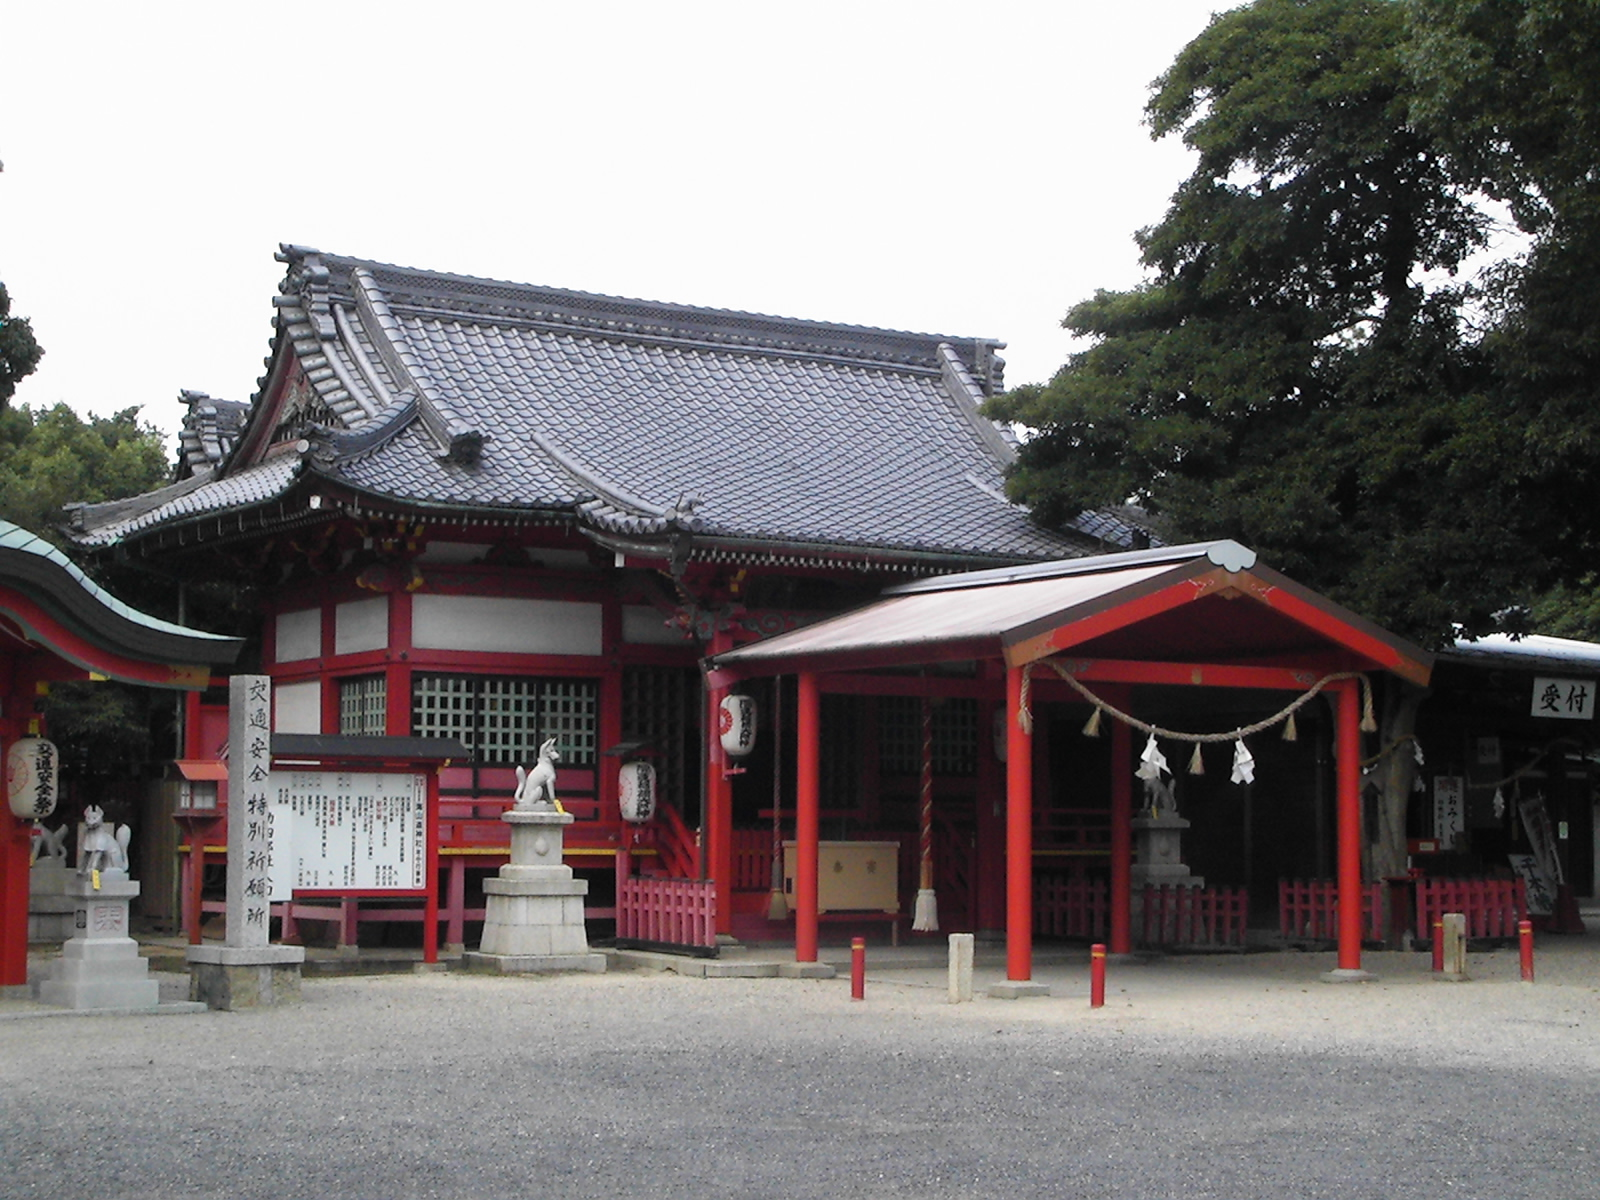
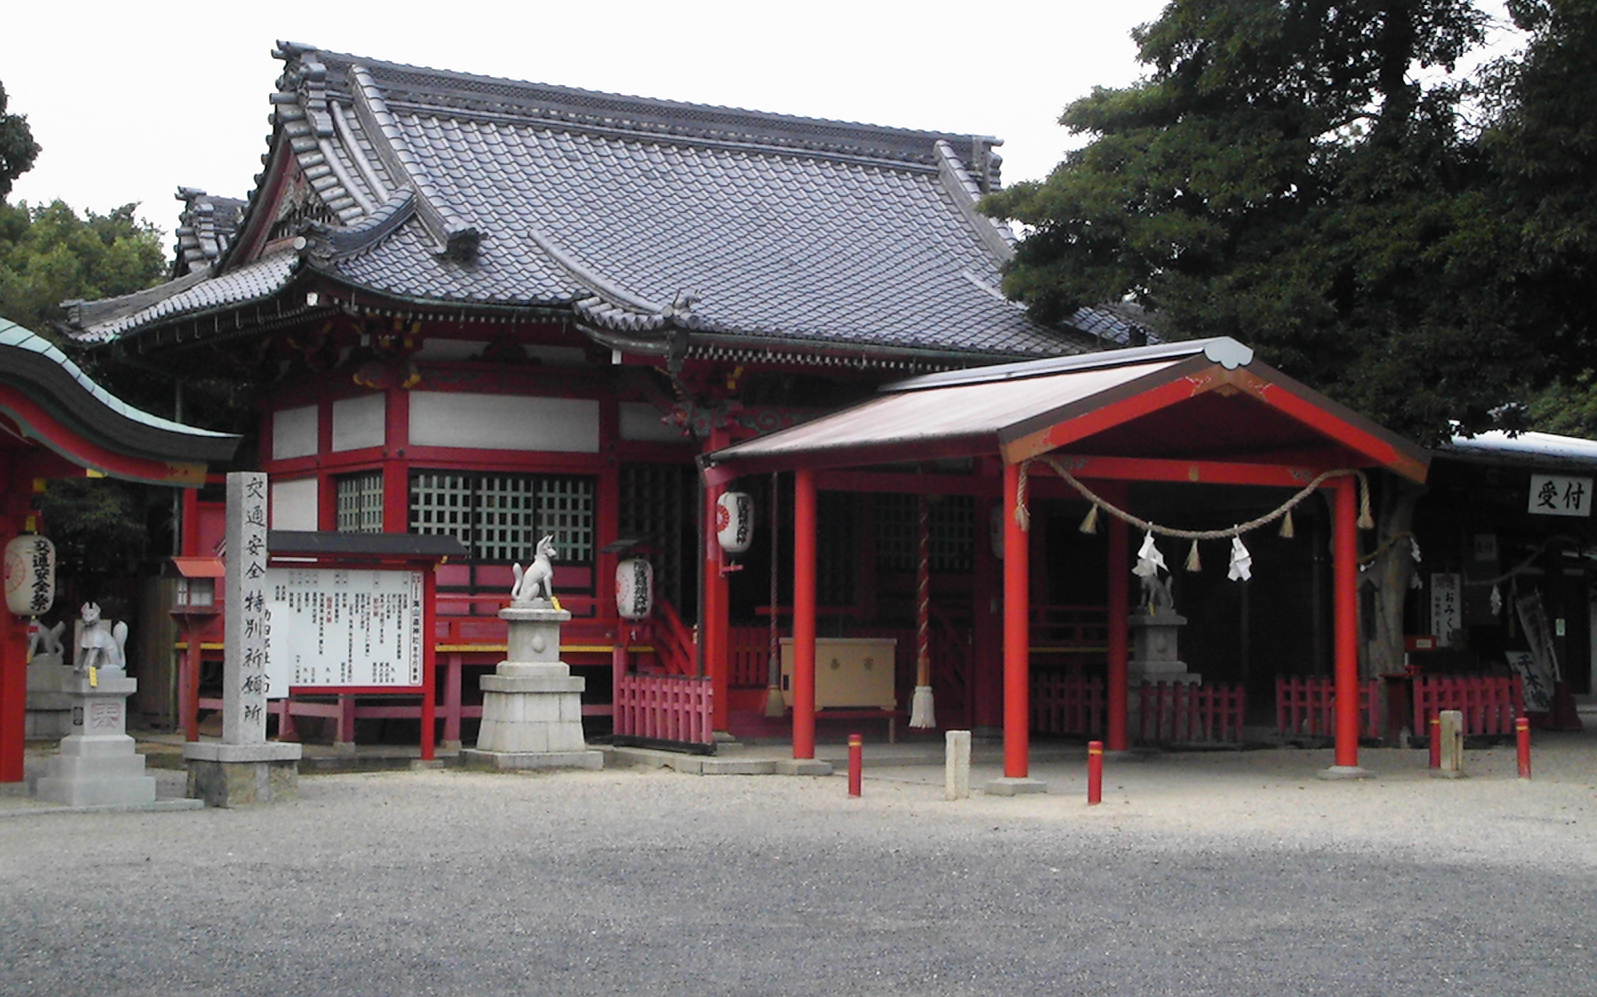
Crop honden image

diff --git a/src/components/Layout.js b/src/components/Layout.js
@@ -1,7 +1,7 @@
 import React from 'react';
 import { withPrefix } from 'gatsby';
 import { Helmet } from 'react-helmet';
-import { Container, Header, Segment } from 'semantic-ui-react';
+import { Container, Header, List, Segment } from 'semantic-ui-react';
 
 import ResponsiveContainer from './ResponsiveContainer';
 import BackToTopLink from './BackToTopLink';
@@ -15,6 +15,7 @@ function TemplateWrapper({ children }) {
     phone,
     phoneIntl,
     address,
+    gmap,
   } = useSiteMetadata();
   return (
     <ResponsiveContainer>
@@ -52,19 +53,26 @@ function TemplateWrapper({ children }) {
         inverted
         vertical
         clearing
-        style={{ padding: '5em 0em' }}
+        style={{ padding: '5rem 0rem 2rem 0rem' }}
       >
         <Container>
           <Header as="h4" inverted>
             © {new Date().getFullYear()} {title}
           </Header>
-          <address>
-            鎮座地: {address}
-            <br />
-            Email: <a href={`mailto:${email}`}>{email}</a>
-            <br />
-            Tel: <a href={`tel:${phoneIntl}`}>{phone}</a>
-          </address>
+          <List as="address" link inverted>
+            <List.Item>
+              鎮座地:{' '}
+              <a href={gmap} target="_blank" rel="noopener noreferrer">
+                {address}
+              </a>
+            </List.Item>
+            <List.Item>
+              電話: <a href={`tel:${phoneIntl}`}>{phone}</a>
+            </List.Item>
+            <List.Item>
+              Email: <a href={`mailto:${email}`}>{email}</a>
+            </List.Item>
+          </List>
           <span style={{ float: 'right' }}>
             <BackToTopLink />
           </span>

diff --git a/gatsby-config.js b/gatsby-config.js
@@ -3,7 +3,9 @@ module.exports = {
     title: '海山道神社',
     description:
       '海山道開運稲荷さまは海でも山でも道をきり開いて開運を運んで下さる尊いお稲荷さまということで、お金やお客様を運べば商売繁盛、車や船を運んで交通安全・海上安全・旅行安全、筆を運んで受験合格・就職出世成功、その他縁結、子授、安産、病気平癒、借金取り等道を切り開いて都合よくお運びいただく開運諸願成就のあしどめ稲荷さまです。',
-    address: '〒510-0845 三重県四日市市海山道町1丁目62',
+    address: '〒510-0845 三重県四日市市海山道町1丁目62番地',
+    gmap:
+      'https://www.google.com/maps/place/Miyamado+Shrine/@34.9430372,136.6211072,18z',
     phone: '059-345-5419',
     phoneIntl: '+81593455419',
     email: 'miyamado@m7.cty-net.ne.jp',

diff --git a/src/components/useSiteMetadata.js b/src/components/useSiteMetadata.js
@@ -13,6 +13,7 @@ const useSiteMetadata = () => {
             phone
             phoneIntl
             author
+            gmap
           }
         }
       }
